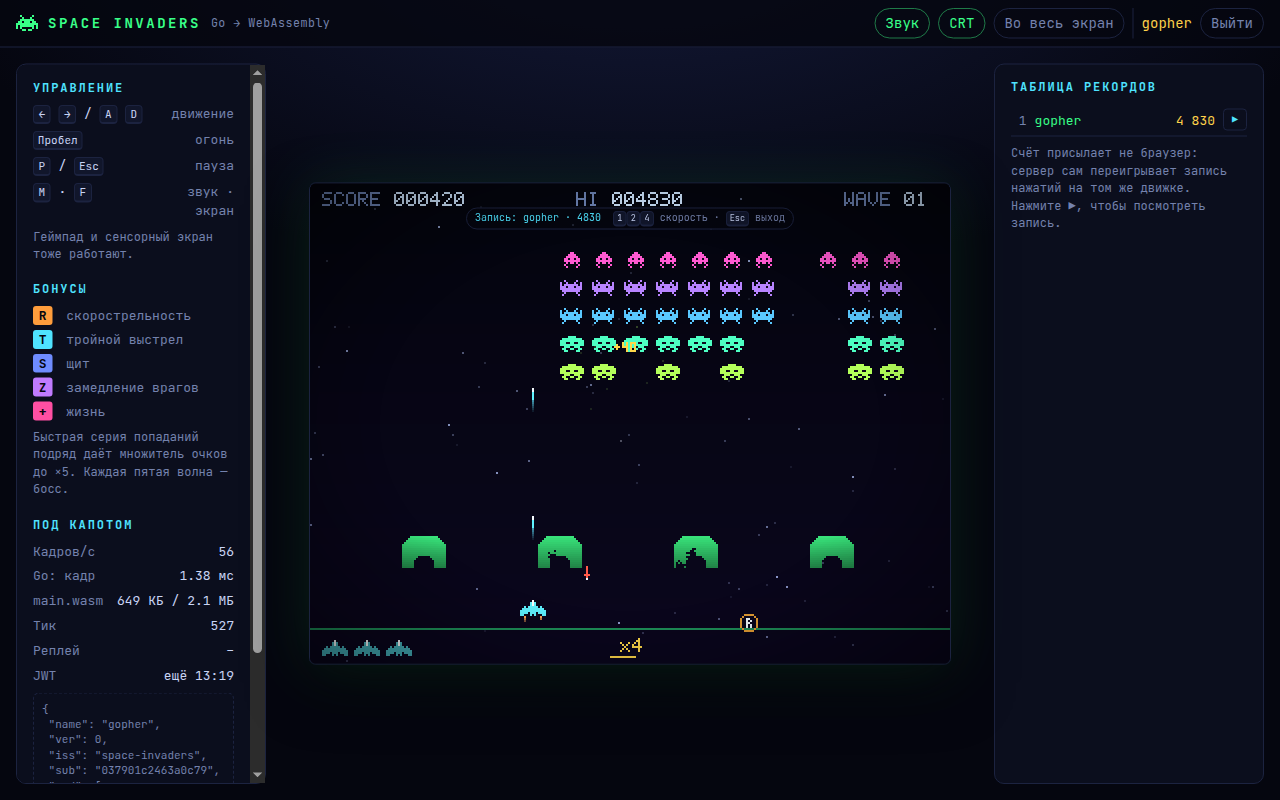
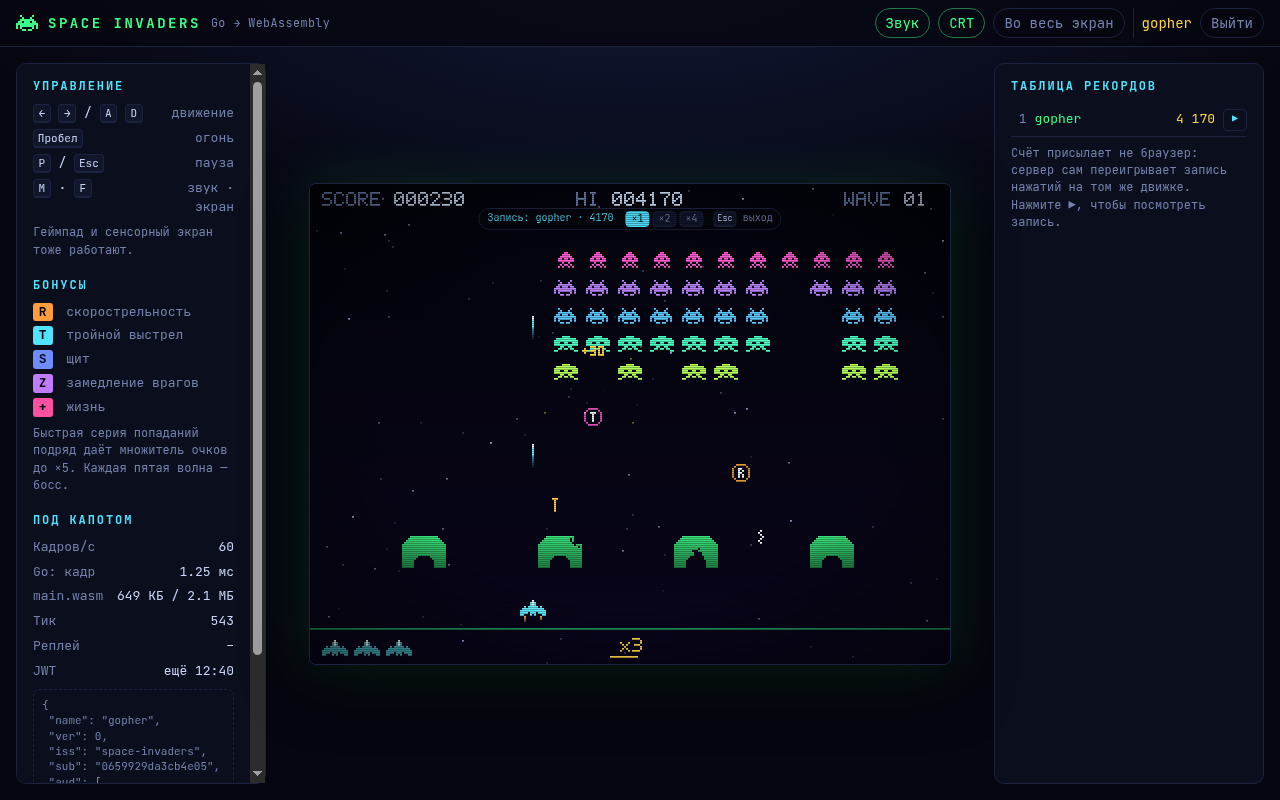
Fix Space restarting the game from the game-over screen, show replay speed
Game-over buttons stay inert for a moment and never react to Space, the
fire key. The replay banner has ×1/×2/×4 buttons that show the current
speed. The game-over overlay blurs the canvas lettering behind it.

diff --git a/web/app.js b/web/app.js
@@ -18,6 +18,7 @@ const BEST_KEY = 'si.best';
 const CRT_KEY = 'si.crt';
 const OVER_DELAY_MS = 1400; // let the last explosion play out
 const WATCH_END_MS = 2500;
+const OVER_GUARD_MS = 700; // game-over buttons ignore input this long
 
 const api = new Api();
 /** @type {import('./wasm.js').Engine} */
@@ -34,6 +35,7 @@ let starting = false;
 let ticket = null; // the server's ticket for the game being played
 let pending = null; // a finished game the server has not accepted yet
 let overSince = 0;
+let overGuard = 0;
 let watchSpeed = 1;
 let boardTop = 0;
 let crt = localStorage.getItem(CRT_KEY) !== '0';
@@ -71,6 +73,8 @@ function setScene(next) {
   scene = next;
   paused = false;
   overSince = 0;
+  clearTimeout(overGuard);
+  for (const id of ['btn-again', 'btn-menu']) $(id).disabled = false;
   input.capture = next === 'play';
   input.release();
   $('watch-banner').hidden = next !== 'watch';
@@ -119,11 +123,18 @@ async function watch(entry) {
     sound.unlock();
     const rec = await api.replay(entry.userId);
     engine.watch(rec.seed, rec.replay);
-    watchSpeed = 1;
+    setWatchSpeed(1);
     $('watch-text').textContent = `Запись: ${rec.name} · ${rec.score}`;
     setScene('watch');
   } catch (err) {
     $('board-note').textContent = err.message;
+  }
+}
+
+function setWatchSpeed(speed) {
+  watchSpeed = speed;
+  for (const btn of document.querySelectorAll('.speed')) {
+    btn.setAttribute('aria-pressed', String(Number(btn.dataset.speed) === speed));
   }
 }
 
@@ -138,7 +149,7 @@ function togglePause() {
 function onAction(action) {
   switch (action) {
     case 'start':
-      if (scene === 'menu' || scene === 'over') startGame();
+      if (scene === 'menu' || (scene === 'over' && !$('btn-again').disabled)) startGame();
       else if (paused) togglePause();
       break;
     case 'pause':
@@ -157,7 +168,7 @@ function onAction(action) {
     case 'speed1':
     case 'speed2':
     case 'speed4':
-      if (scene === 'watch') watchSpeed = Number(action.slice(-1));
+      if (scene === 'watch') setWatchSpeed(Number(action.slice(-1)));
       break;
   }
 }
@@ -174,7 +185,14 @@ function gameOver() {
   syncHiScore();
 
   setScene('over');
-  $('btn-again').focus({ preventScroll: true });
+  // The player is usually still hammering fire when the last life goes, and
+  // Space clicks a focused button. Keep the buttons inert for a moment.
+  const buttons = [$('btn-again'), $('btn-menu')];
+  for (const btn of buttons) btn.disabled = true;
+  overGuard = setTimeout(() => {
+    for (const btn of buttons) btn.disabled = false;
+    if (scene === 'over') $('btn-again').focus({ preventScroll: true });
+  }, OVER_GUARD_MS);
 
   if (ticket) {
     pending = { ticket, replay: engine.replay() };
@@ -422,6 +440,17 @@ async function boot() {
   $('btn-play').addEventListener('click', startGame);
   $('btn-again').addEventListener('click', startGame);
   $('btn-menu').addEventListener('click', toMenu);
+  for (const btn of document.querySelectorAll('.speed')) {
+    btn.addEventListener('click', () => setWatchSpeed(Number(btn.dataset.speed)));
+  }
+  // Space is the fire key, so it never activates an overlay button; Enter does.
+  for (const btn of document.querySelectorAll('.overlay .btn')) {
+    for (const type of ['keydown', 'keyup']) {
+      btn.addEventListener(type, (e) => {
+        if (e.code === 'Space') e.preventDefault();
+      });
+    }
+  }
   $('btn-resume').addEventListener('click', togglePause);
   $('btn-quit').addEventListener('click', toMenu);
   $('btn-sound').addEventListener('click', () => setMuted(!sound.muted));

diff --git a/web/style.css b/web/style.css
@@ -281,7 +281,12 @@ kbd {
 }
 
 .overlay.menu { background: radial-gradient(ellipse at 50% 40%, rgba(5, 6, 15, .82) 0%, rgba(5, 6, 15, .45) 70%); }
-.overlay.over { background: rgba(5, 6, 15, .94); }
+.overlay.over {
+  background: rgba(5, 6, 15, .9);
+  /* The canvas keeps its own GAME OVER lettering; blur it into a glow. */
+  -webkit-backdrop-filter: blur(calc(5 * var(--px))) brightness(.55);
+  backdrop-filter: blur(calc(5 * var(--px))) brightness(.55);
+}
 .overlay.pause { justify-content: flex-end; padding-bottom: calc(70 * var(--px)); }
 #view-loading, #view-error { background: var(--bg); }
 
@@ -383,7 +388,18 @@ kbd {
   z-index: 3;
 }
 
-.banner-keys { color: var(--dim); }
+.banner-keys { display: flex; align-items: center; gap: 1em; color: var(--dim); }
+.speeds { display: inline-flex; gap: .3em; }
+.speed {
+  padding: 0 .5em;
+  border: 1px solid var(--line);
+  border-radius: 4px;
+  background: #11162b;
+  color: var(--dim);
+  font: inherit;
+  cursor: pointer;
+}
+.speed[aria-pressed="true"] { border-color: var(--cyan); background: var(--cyan); color: #05060f; }
 
 /* ---------- touch controls ---------- */
 

diff --git a/web/index.html b/web/index.html
@@ -113,7 +113,14 @@
 
         <div class="banner" id="watch-banner" hidden>
           <span id="watch-text"></span>
-          <span class="banner-keys"><kbd>1</kbd><kbd>2</kbd><kbd>4</kbd> скорость · <kbd>Esc</kbd> выход</span>
+          <span class="banner-keys">
+            <span class="speeds" role="group" aria-label="Скорость записи">
+              <button type="button" class="speed" data-speed="1" title="Клавиша 1">×1</button>
+              <button type="button" class="speed" data-speed="2" title="Клавиша 2">×2</button>
+              <button type="button" class="speed" data-speed="4" title="Клавиша 4">×4</button>
+            </span>
+            <span><kbd>Esc</kbd> выход</span>
+          </span>
         </div>
       </div>
 
